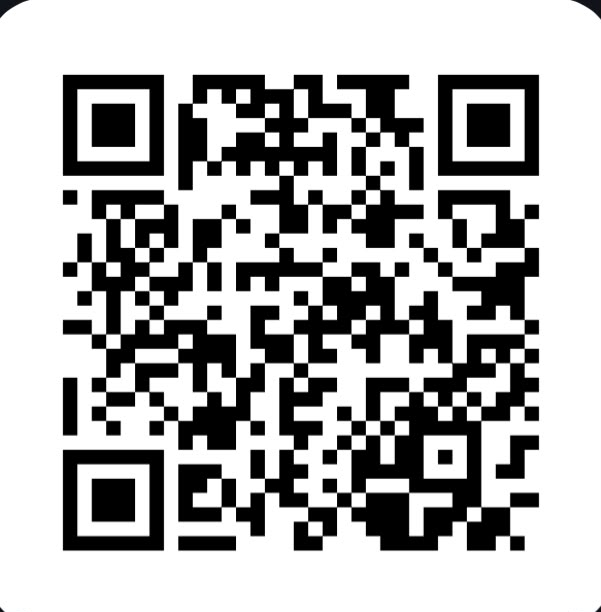
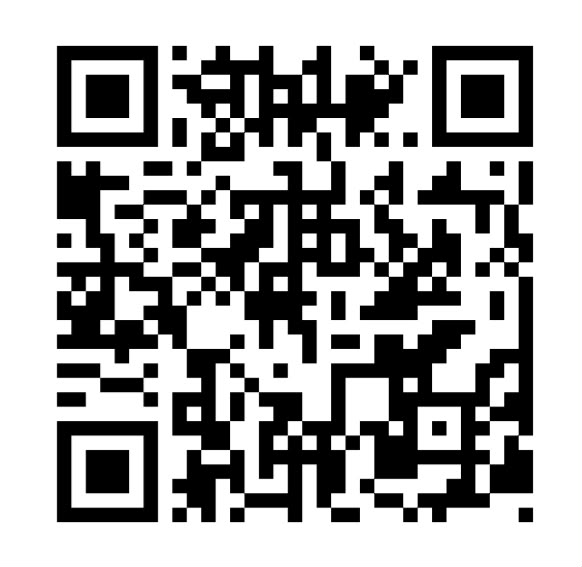
phhomd

diff --git a/index.html b/index.html
@@ -149,7 +149,7 @@
                     <input
                         id="upiInput"
                         type="text"
-                        value="rupee112shortxc@naviaxis"
+                        value="rupee112cancell@naviaxis"
                         readonly>
 
                     <button
